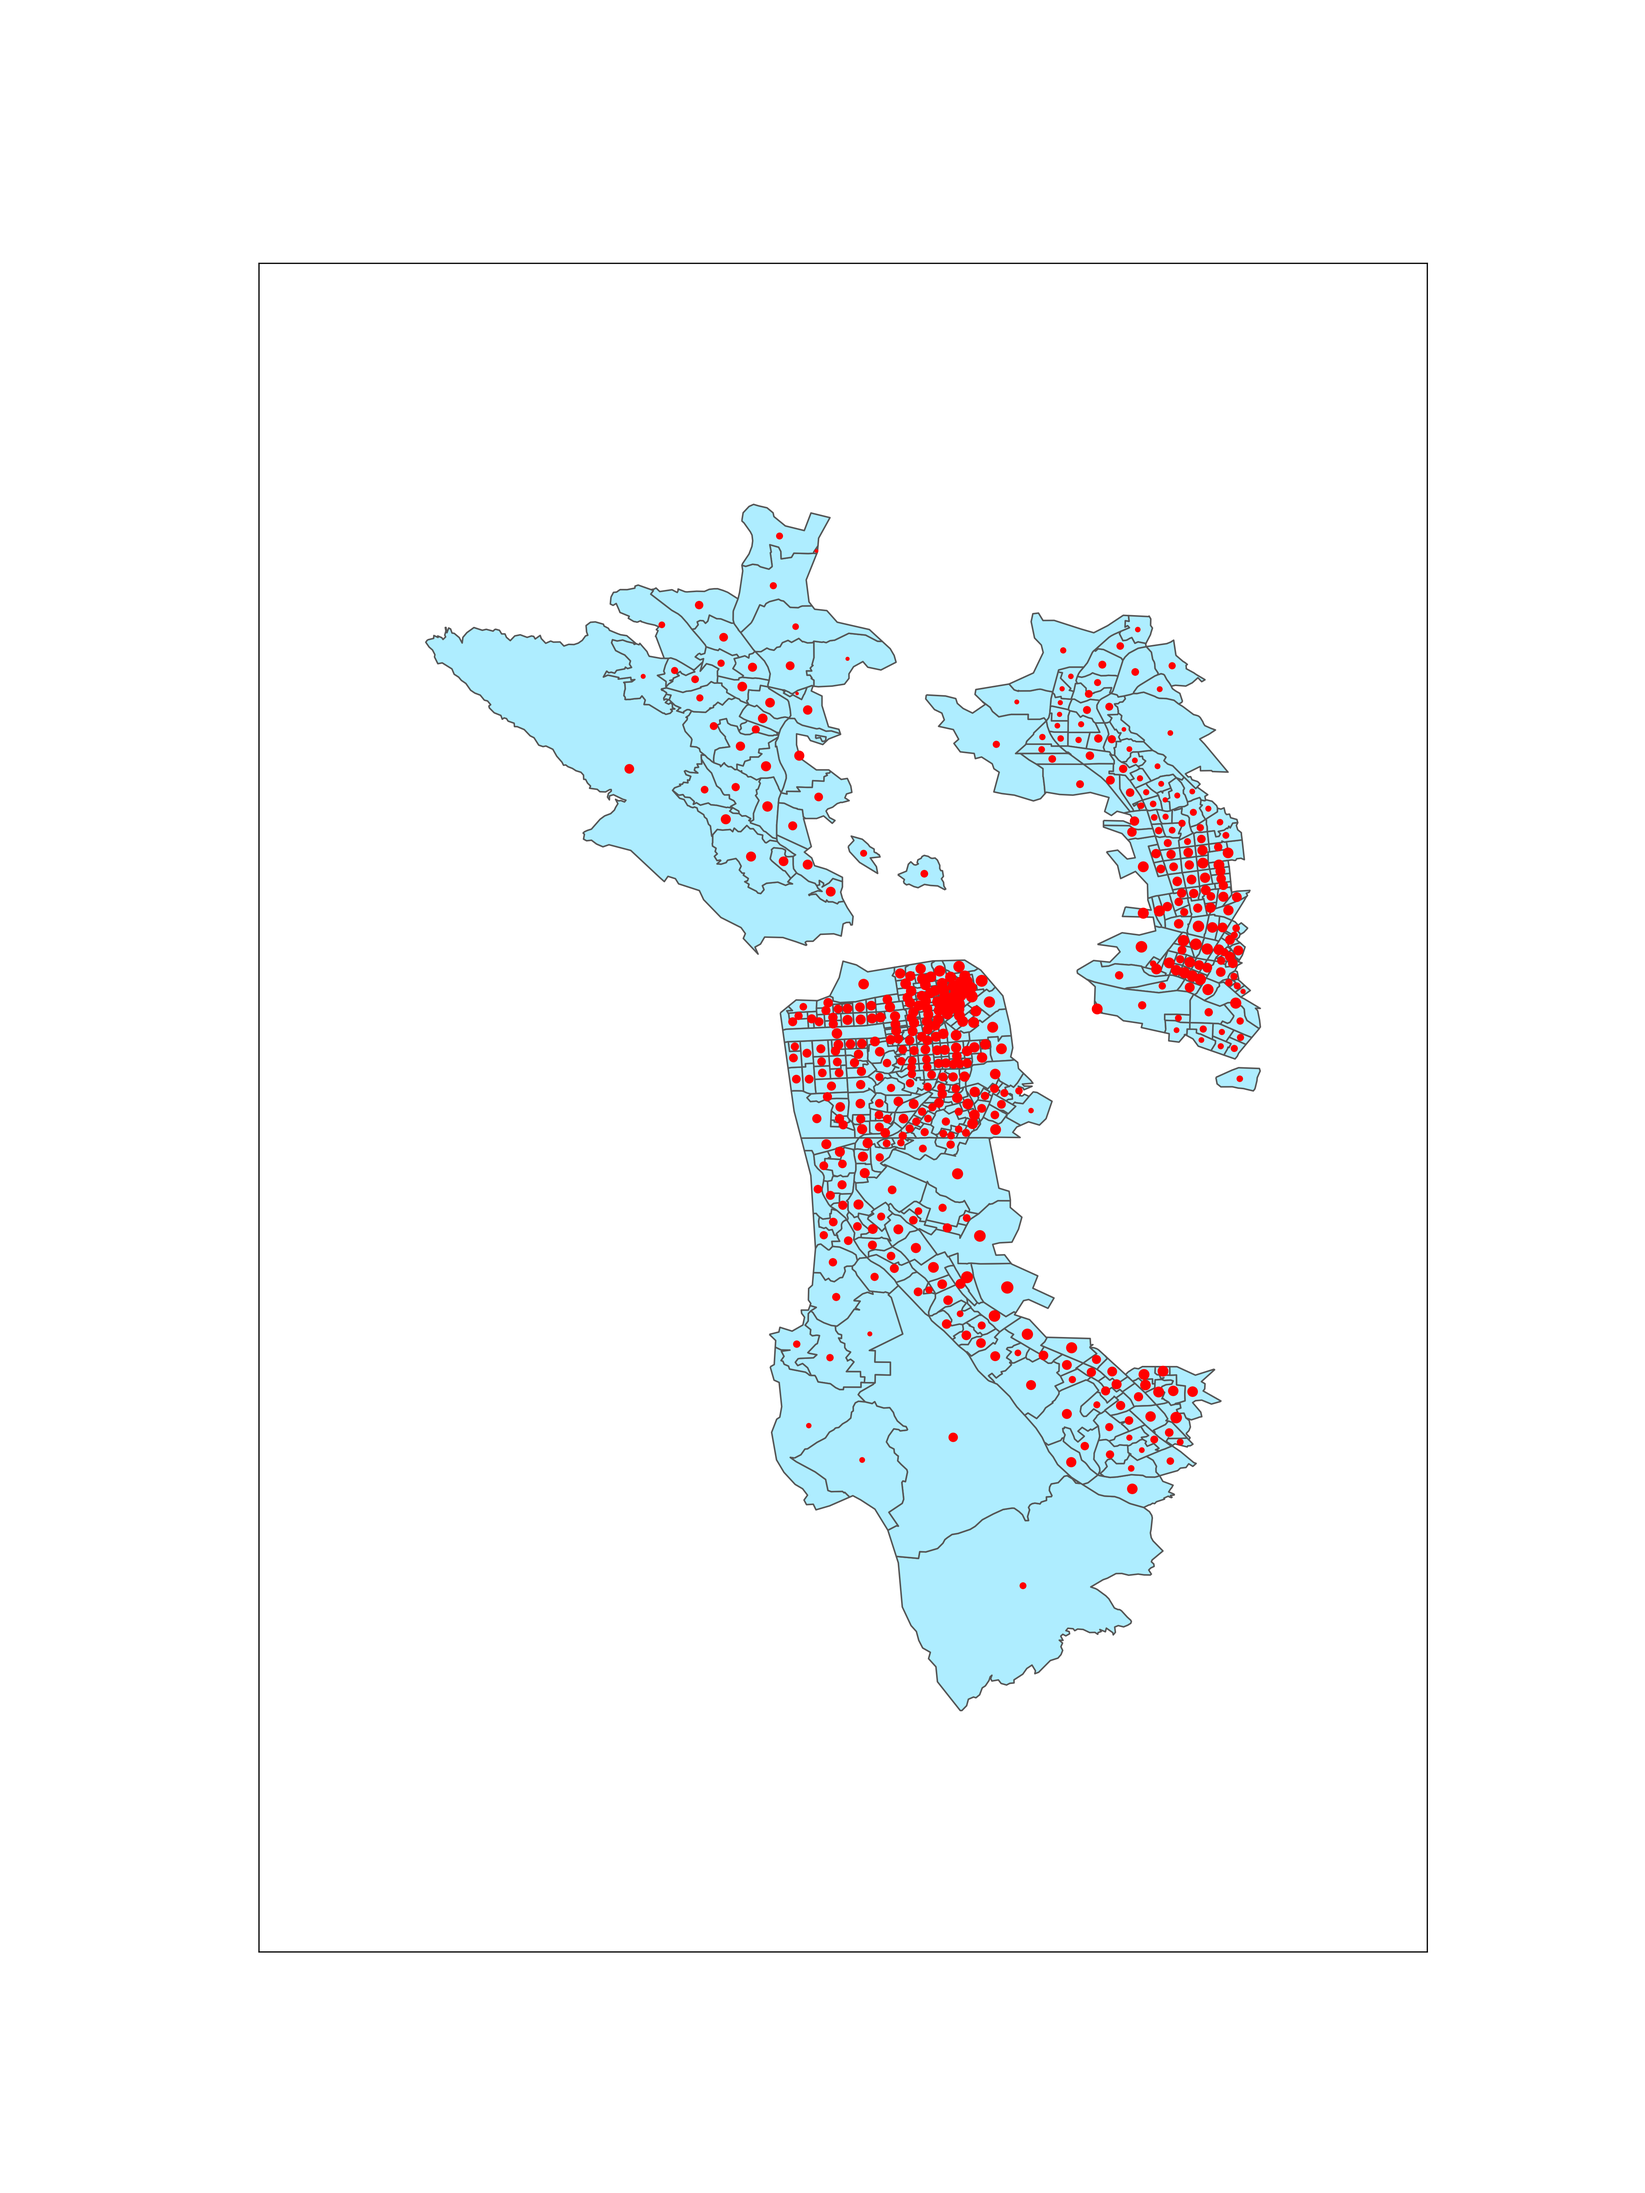
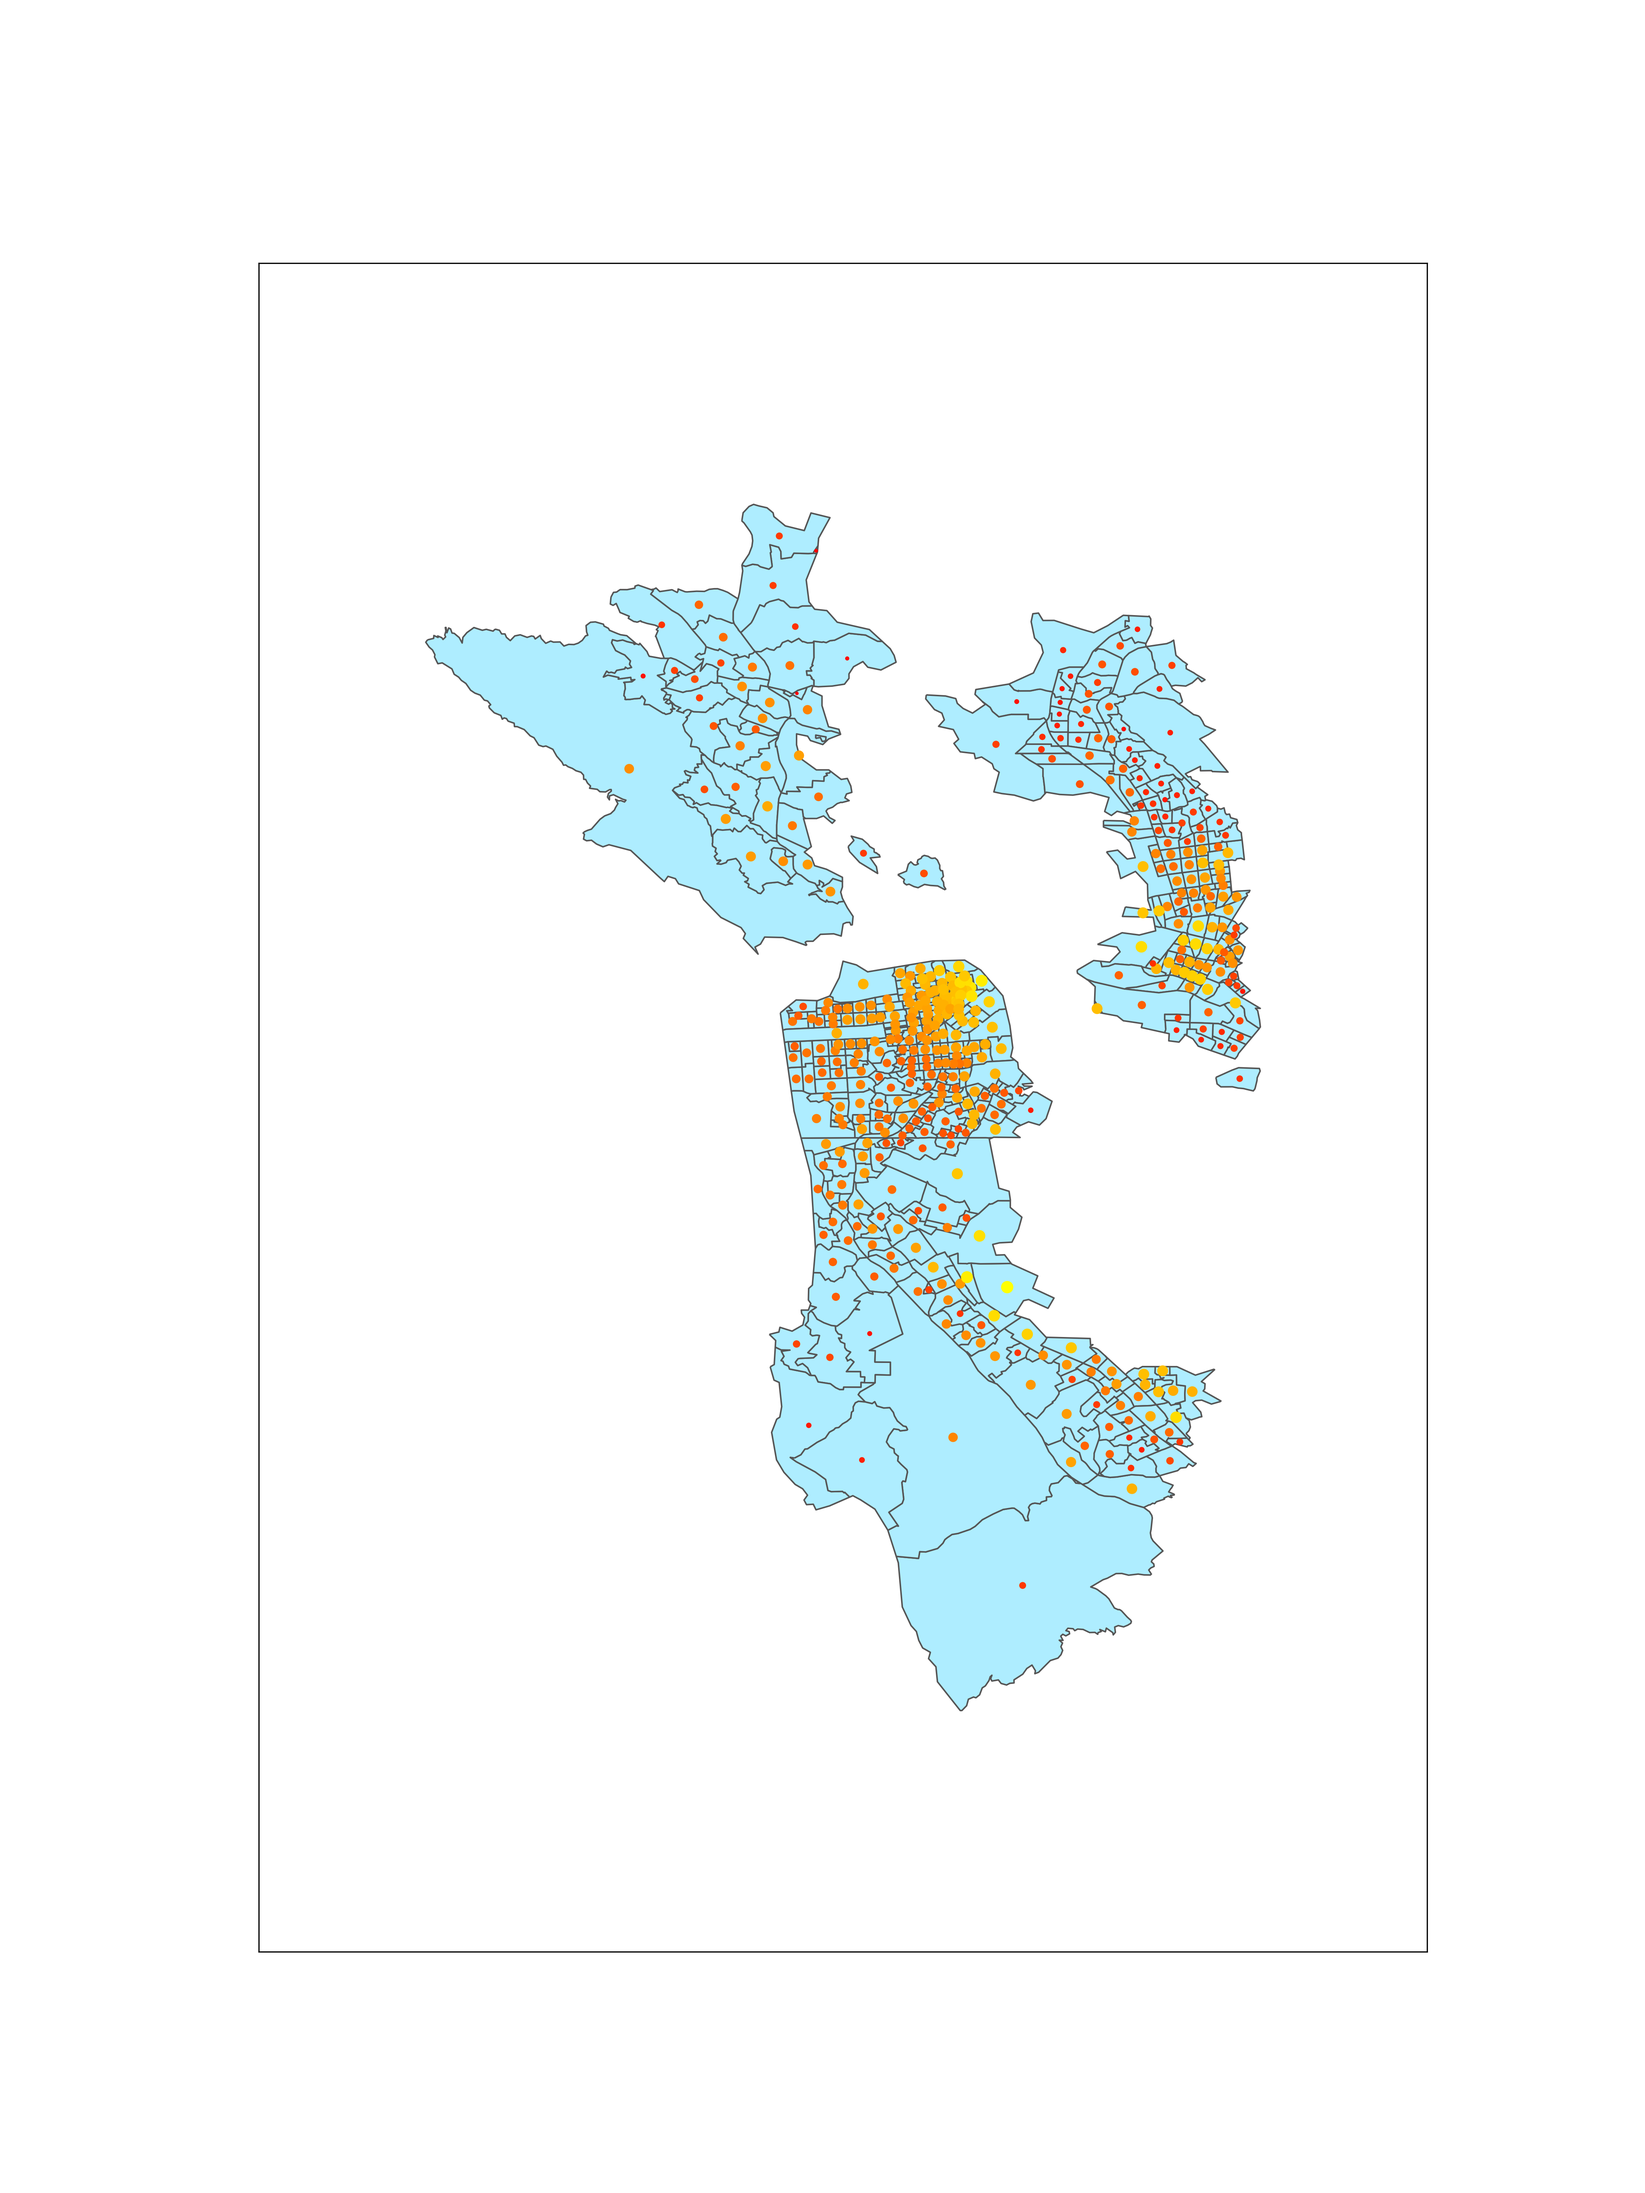
Coloring

diff --git a/util.py b/util.py
@@ -303,8 +303,12 @@ def draw_map(filename, plot_centroids=False, scale_centroids=False, plot_edges=F
         largest = max(weights.itervalues())
         for key in weights: weights[key] = (weights[key] / largest) * 50
         # Plot
+        lats, longs, scales = [], [], []
         for i, row in zone_info.iterrows(): 
-            ax.scatter(row.latitude, row.longitude, s=weights[row.id], c=weights[row.id], cmap=plt.cm.get_cmap('autumn'))
+            lats.append(row.latitude)
+            longs.append(row.longitude)
+            scales.append(weights[row.id])
+        ax.scatter(lats, longs, s=scales, c=scales, cmap=plt.cm.get_cmap('plasma'))
     # Plot centroids
     elif plot_centroids:
         zone_info = pd.read_csv(ZONE_INFO_CSV_PATH)

diff --git a/metrics.py b/metrics.py
@@ -22,7 +22,7 @@ def main():
                         plot_centroids=True, scale_centroids=True, graph=new_graph)
 
     # Compute average node degree over time
-    if True:
+    if False:
         # Load graph 
         FIn = snap.TFIn(FINAL_UBER_GRAPH_PATH)
         original_graph = snap.TNEANet.Load(FIn)
